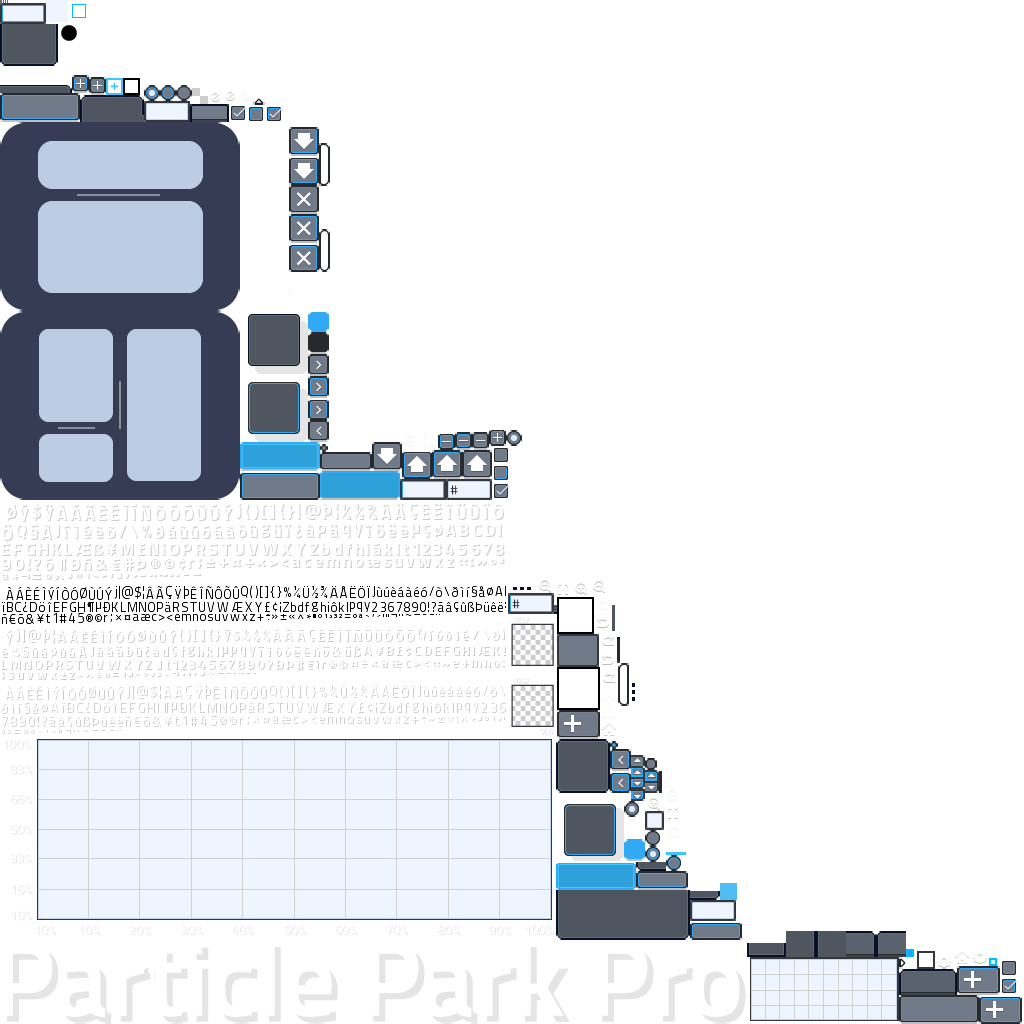
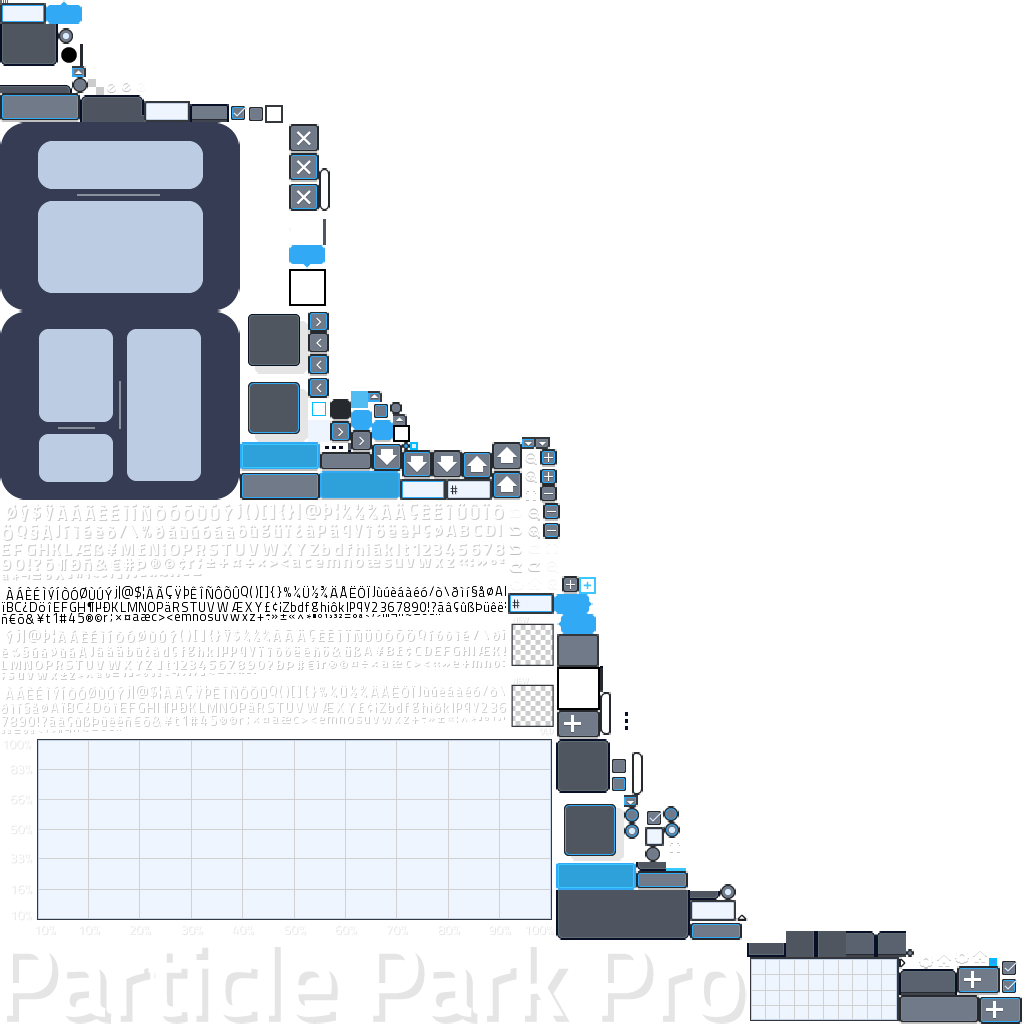
Added background for tooltips.

diff --git a/core/src/main/java/com/ray3k/particleparkpro/widgets/poptables/PopAddProperty.java b/core/src/main/java/com/ray3k/particleparkpro/widgets/poptables/PopAddProperty.java
@@ -57,8 +57,7 @@ public class PopAddProperty extends PopTable {
             EmitterPropertiesPanel.emitterPropertiesPanel.populateScrollTable();
         });
 
-        var popStyle = new PopTableStyle();
-        var popHoverListener = new PopTableHoverListener(Align.left, Align.left, popStyle);
+        var popHoverListener = new PopTableHoverListener(Align.left, Align.left, tooltipRightArrowStyle);
         popHoverListener.getPopTable().setAttachOffsetX(-10);
         popHoverListener.getPopTable().setKeepSizedWithinStage(false);
         delayCheckBox.addListener(popHoverListener);
@@ -76,7 +75,7 @@ public class PopAddProperty extends PopTable {
             else shownProperties.remove(LIFE_OFFSET);
         });
 
-        popHoverListener = new PopTableHoverListener(Align.left, Align.left, popStyle);
+        popHoverListener = new PopTableHoverListener(Align.left, Align.left, tooltipRightArrowStyle);
         lifeOffsetCheckbox.addListener(popHoverListener);
         popHoverListener.getPopTable().setAttachOffsetX(-10);
         popHoverListener.getPopTable().setKeepSizedWithinStage(false);
@@ -94,7 +93,7 @@ public class PopAddProperty extends PopTable {
             else shownProperties.remove(X_OFFSET);
         });
 
-        popHoverListener = new PopTableHoverListener(Align.left, Align.left, popStyle);
+        popHoverListener = new PopTableHoverListener(Align.left, Align.left, tooltipRightArrowStyle);
         xOffsetCheckBox.addListener(popHoverListener);
         popHoverListener.getPopTable().setAttachOffsetX(-10);
         popHoverListener.getPopTable().setKeepSizedWithinStage(false);
@@ -112,7 +111,7 @@ public class PopAddProperty extends PopTable {
             else shownProperties.remove(Y_OFFSET);
         });
 
-        popHoverListener = new PopTableHoverListener(Align.left, Align.left, popStyle);
+        popHoverListener = new PopTableHoverListener(Align.left, Align.left, tooltipRightArrowStyle);
         yOffsetCheckBox.addListener(popHoverListener);
         popHoverListener.getPopTable().setAttachOffsetX(-10);
         popHoverListener.getPopTable().setKeepSizedWithinStage(false);
@@ -130,7 +129,7 @@ public class PopAddProperty extends PopTable {
             else shownProperties.remove(Y_SIZE);
         });
 
-        popHoverListener = new PopTableHoverListener(Align.left, Align.left, popStyle);
+        popHoverListener = new PopTableHoverListener(Align.left, Align.left, tooltipRightArrowStyle);
         ySizeCheckBox.addListener(popHoverListener);
         popHoverListener.getPopTable().setAttachOffsetX(-10);
         popHoverListener.getPopTable().setKeepSizedWithinStage(false);
@@ -148,7 +147,7 @@ public class PopAddProperty extends PopTable {
             else shownProperties.remove(VELOCITY);
         });
 
-        popHoverListener = new PopTableHoverListener(Align.left, Align.left, popStyle);
+        popHoverListener = new PopTableHoverListener(Align.left, Align.left, tooltipRightArrowStyle);
         velocityCheckBox.addListener(popHoverListener);
         popHoverListener.getPopTable().setAttachOffsetX(-10);
         popHoverListener.getPopTable().setKeepSizedWithinStage(false);
@@ -166,7 +165,7 @@ public class PopAddProperty extends PopTable {
             else shownProperties.remove(ANGLE);
         });
 
-        popHoverListener = new PopTableHoverListener(Align.left, Align.left, popStyle);
+        popHoverListener = new PopTableHoverListener(Align.left, Align.left, tooltipRightArrowStyle);
         angleCheckBox.addListener(popHoverListener);
         popHoverListener.getPopTable().setAttachOffsetX(-10);
         popHoverListener.getPopTable().setKeepSizedWithinStage(false);
@@ -184,7 +183,7 @@ public class PopAddProperty extends PopTable {
             else shownProperties.remove(ROTATION);
         });
 
-        popHoverListener = new PopTableHoverListener(Align.left, Align.left, popStyle);
+        popHoverListener = new PopTableHoverListener(Align.left, Align.left, tooltipRightArrowStyle);
         rotationCheckBox.addListener(popHoverListener);
         popHoverListener.getPopTable().setAttachOffsetX(-10);
         popHoverListener.getPopTable().setKeepSizedWithinStage(false);
@@ -202,7 +201,7 @@ public class PopAddProperty extends PopTable {
             else shownProperties.remove(WIND);
         });
 
-        popHoverListener = new PopTableHoverListener(Align.left, Align.left, popStyle);
+        popHoverListener = new PopTableHoverListener(Align.left, Align.left, tooltipRightArrowStyle);
         windCheckBox.addListener(popHoverListener);
         popHoverListener.getPopTable().setAttachOffsetX(-10);
         popHoverListener.getPopTable().setKeepSizedWithinStage(false);
@@ -220,7 +219,7 @@ public class PopAddProperty extends PopTable {
             else shownProperties.remove(GRAVITY);
         });
 
-        popHoverListener = new PopTableHoverListener(Align.left, Align.left, popStyle);
+        popHoverListener = new PopTableHoverListener(Align.left, Align.left, tooltipRightArrowStyle);
         gravityCheckBox.addListener(popHoverListener);
         popHoverListener.getPopTable().setAttachOffsetX(-10);
         popHoverListener.getPopTable().setKeepSizedWithinStage(false);

diff --git a/core/src/main/java/com/ray3k/particleparkpro/Core.java b/core/src/main/java/com/ray3k/particleparkpro/Core.java
@@ -12,6 +12,7 @@ import com.badlogic.gdx.scenes.scene2d.InputEvent;
 import com.badlogic.gdx.scenes.scene2d.Stage;
 import com.badlogic.gdx.scenes.scene2d.ui.Container;
 import com.badlogic.gdx.scenes.scene2d.ui.Skin;
+import com.badlogic.gdx.scenes.scene2d.ui.Window.WindowStyle;
 import com.badlogic.gdx.scenes.scene2d.utils.ChangeListener;
 import com.badlogic.gdx.scenes.scene2d.utils.ClickListener;
 import com.badlogic.gdx.utils.ScreenUtils;
@@ -21,6 +22,7 @@ import com.ray3k.particleparkpro.widgets.LineGraph.LineGraphStyle;
 import com.ray3k.particleparkpro.widgets.styles.*;
 import com.ray3k.particleparkpro.widgets.tables.WelcomeTable;
 import com.ray3k.stripe.PopColorPicker.PopColorPickerStyle;
+import com.ray3k.stripe.PopTable.PopTableStyle;
 import com.ray3k.stripe.ResizeWidget.ResizeWidgetStyle;
 import com.ray3k.stripe.ScrollFocusListener;
 import com.ray3k.stripe.Spinner.SpinnerStyle;
@@ -59,6 +61,10 @@ public class Core extends ApplicationAdapter {
     public static SystemCursorListener allResizeListener;
     public static SplitPaneSystemCursorListener splitPaneHorizontalSystemCursorListener;
     public static SplitPaneSystemCursorListener splitPaneVerticalSystemCursorListener;
+    public static PopTableStyle tooltipBottomArrowStyle;
+    public static PopTableStyle tooltipTopArrowStyle;
+    public static PopTableStyle tooltipRightArrowStyle;
+    public static PopTableStyle tooltipLeftArrowStyle;
 
     @Override
     public void create() {
@@ -81,6 +87,10 @@ public class Core extends ApplicationAdapter {
         particlePreview = new ParticlePreview();
         spinnerStyle = new PPspinnerStyle();
         resizeWidgetStyle = new PPresizeWidgetStyle();
+        tooltipBottomArrowStyle = new PopTableStyle(skin.get("tooltip-bottom-arrow", WindowStyle.class));
+        tooltipTopArrowStyle = new PopTableStyle(skin.get("tooltip-top-arrow", WindowStyle.class));
+        tooltipRightArrowStyle = new PopTableStyle(skin.get("tooltip-right-arrow", WindowStyle.class));
+        tooltipLeftArrowStyle = new PopTableStyle(skin.get("tooltip-left-arrow", WindowStyle.class));
 
         Gdx.input.setInputProcessor(stage);
 

diff --git a/core/src/main/java/com/ray3k/particleparkpro/widgets/panels/OptionsSubPanel.java b/core/src/main/java/com/ray3k/particleparkpro/widgets/panels/OptionsSubPanel.java
@@ -17,12 +17,10 @@ import com.ray3k.stripe.Spinner.Orientation;
 import static com.ray3k.particleparkpro.Core.*;
 
 public class OptionsSubPanel extends Panel {
-    private static PopTable.PopTableStyle popTableStyle;
     public OptionsSubPanel() {
         setTouchable(Touchable.enabled);
 
         final var itemSpacing = 5;
-        popTableStyle = new PopTable.PopTableStyle();
 
         tabTable.left();
         var label = new Label("Options", skin, "header");
@@ -78,7 +76,7 @@ public class OptionsSubPanel extends Panel {
             PopTable popTable;
 
             {
-                popTable = new PopTable(popTableStyle);
+                popTable = new PopTable(tooltipBottomArrowStyle);
                 popTable.setModal(false);
                 popTable.setHideOnUnfocus(true);
                 popTable.setTouchable(Touchable.disabled);
